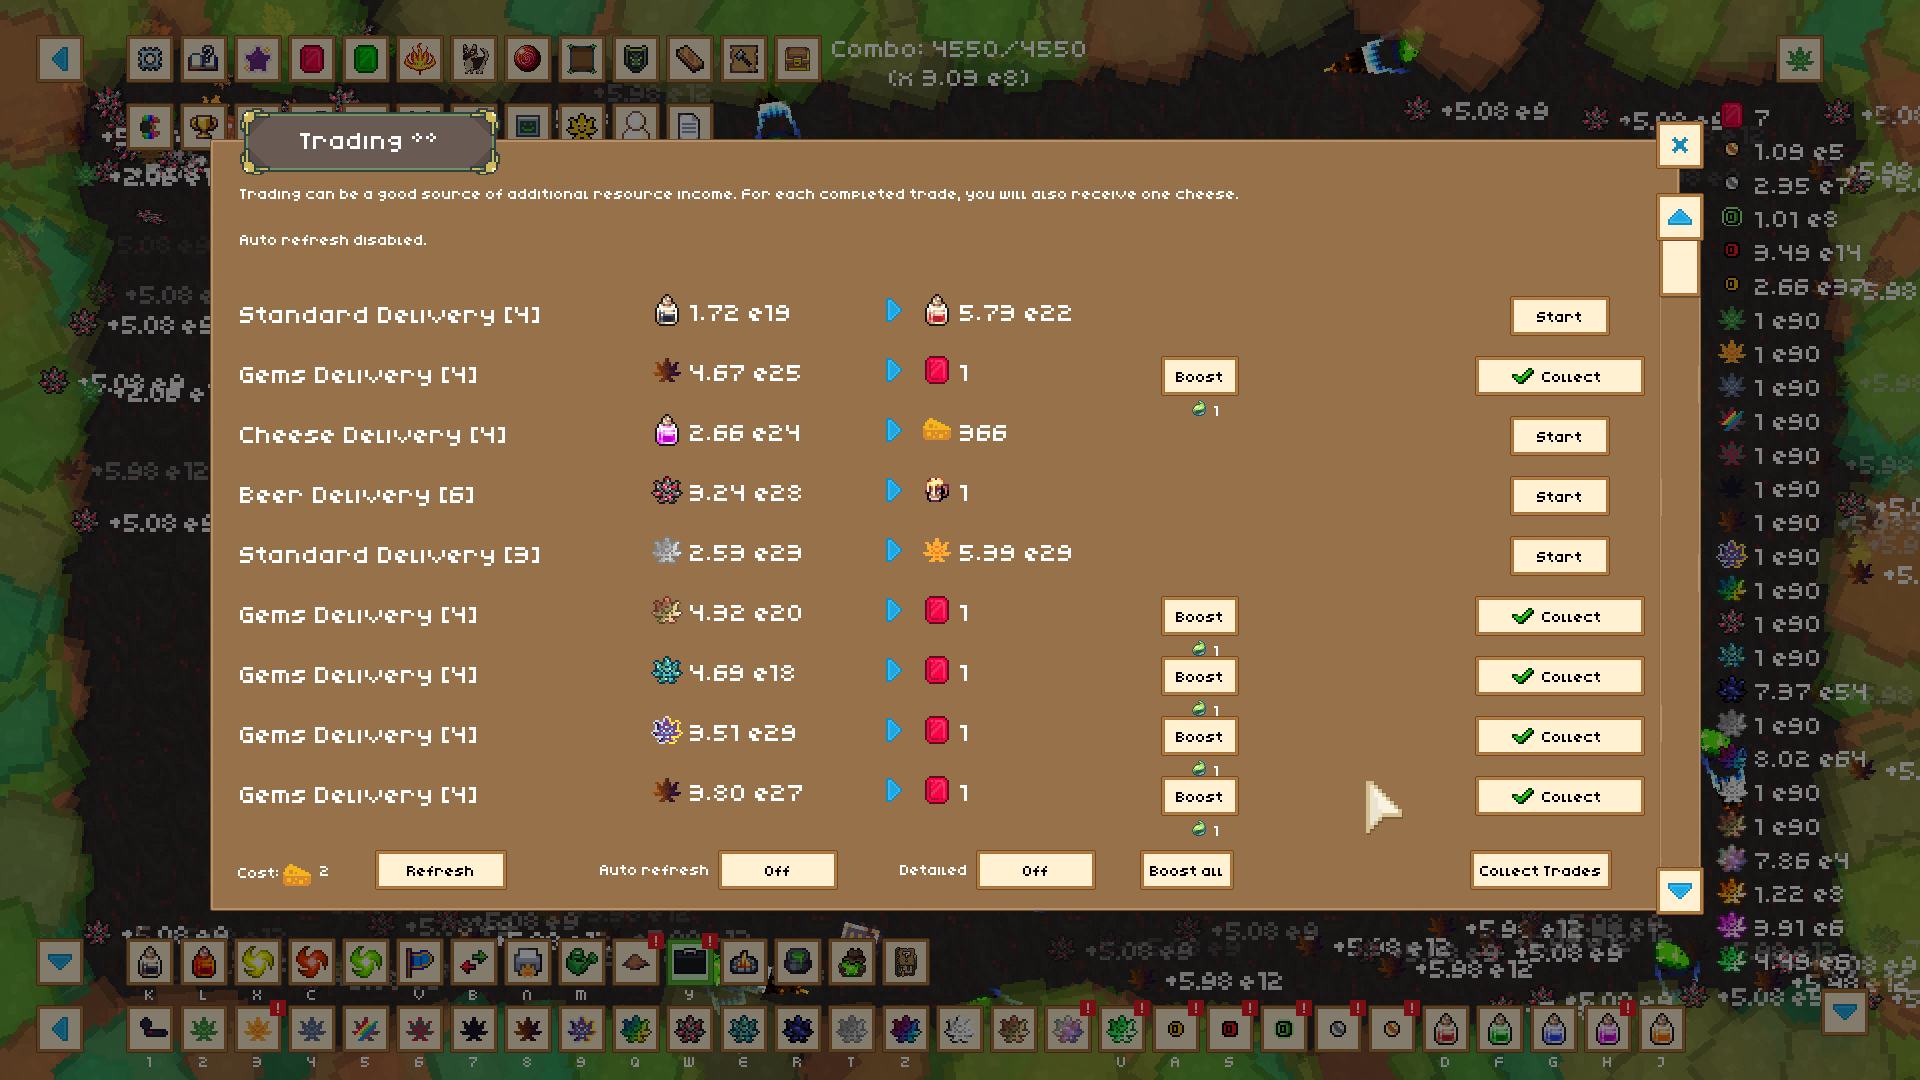
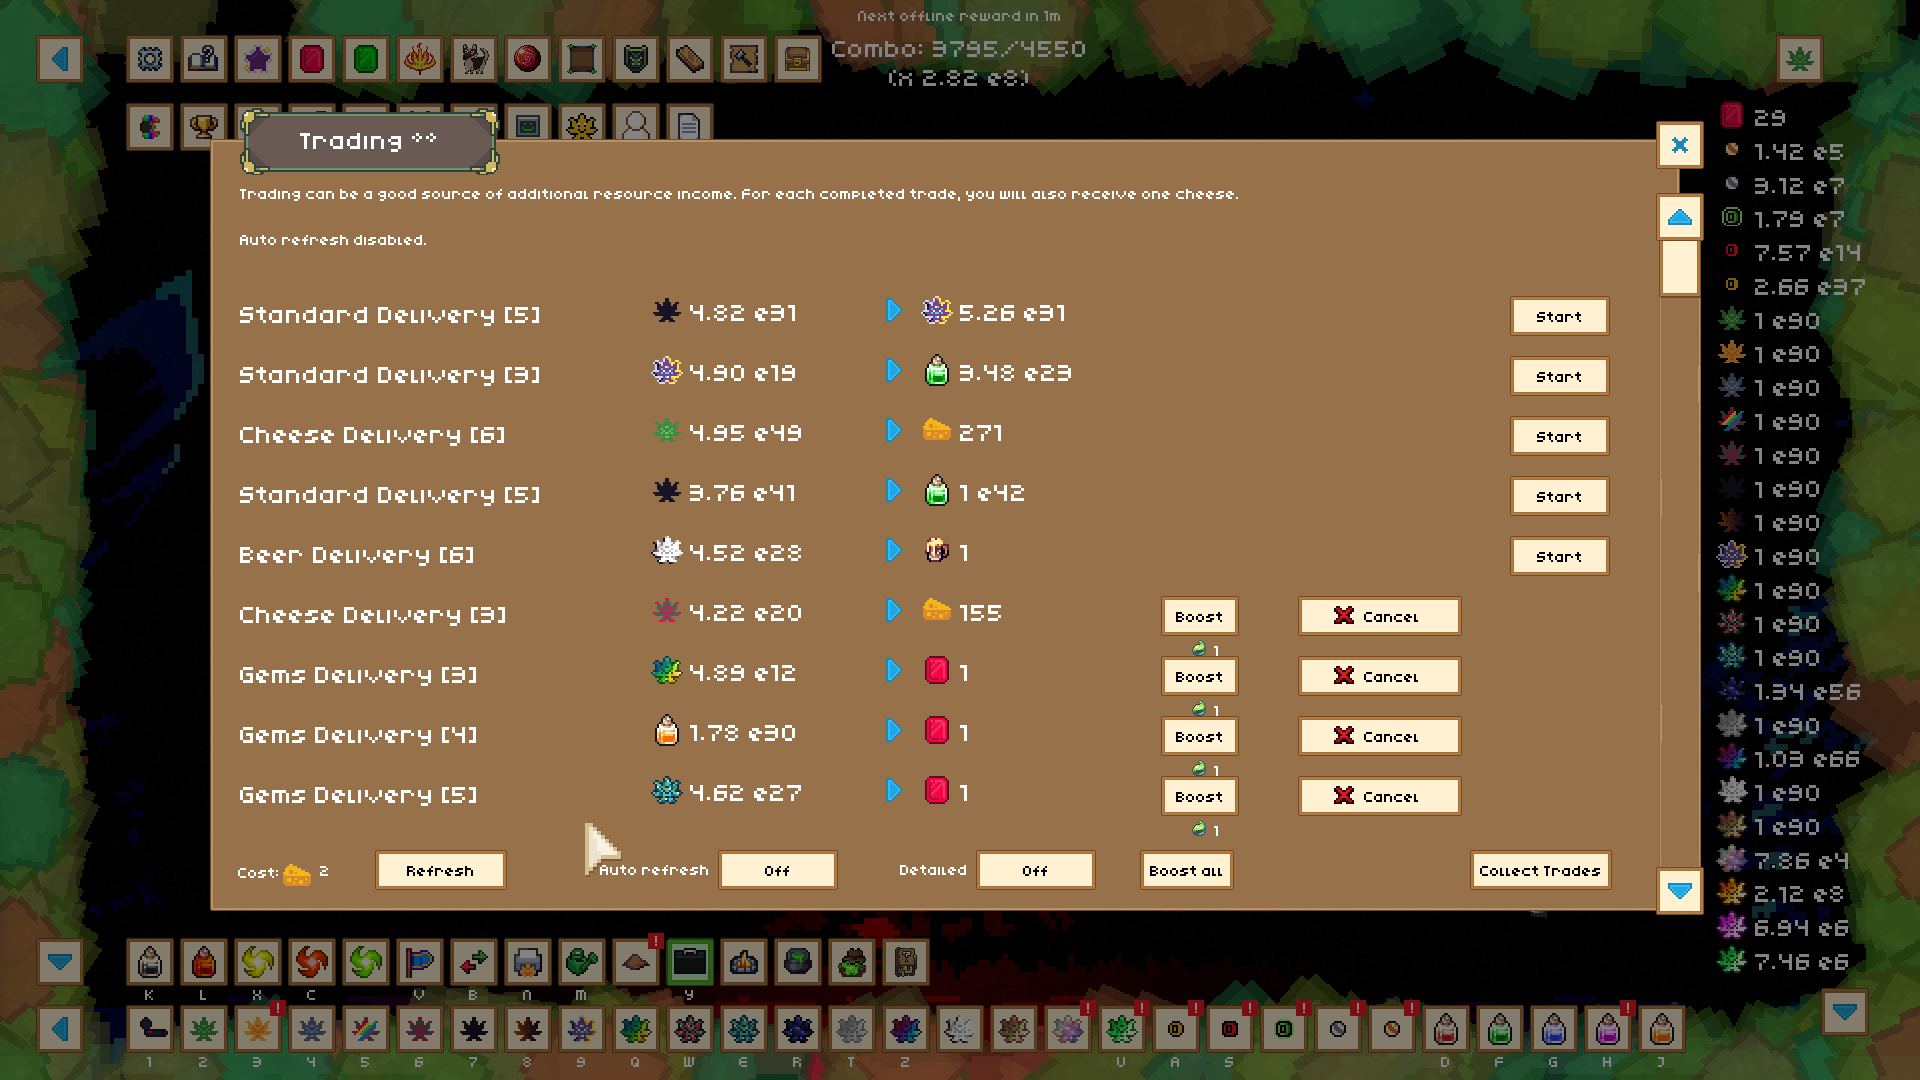
kuvan tunnistusta paranneltu sekä lisätty kalja trade

diff --git a/trade bot.py b/trade bot.py
@@ -6,6 +6,8 @@ import pyautogui
 
 gem_count = 0
 cheese_count = 0
+kalja_count = 0
+cancel_count = 0
 resourse_value = {}
 
 #reunojen piirto
@@ -13,17 +15,36 @@ def piirto(img_rgb, loc, w, h, img_type):
     for pt in zip(*loc[::-1]):
         if img_type == 'gem':
             color = (0, 255, 0)  # Vihreä gemille
-        elif img_type == 'cheese':
+            if any(abs(pt[0] - x) < 10 and abs(pt[1] - y) < 10 for x, y in resourse_value.get('gem', [])):
+                continue
+            resourse_value.setdefault('gem', set()).add((round(pt[0]), round(pt[1])))
+
+        if img_type == 'cheese':
             color = (0, 0, 255)  # Punainen juustolle
+            if any(abs(pt[0] - x) < 10 and abs(pt[1] - y) < 10 for x, y in resourse_value.get('cheese', [])):
+                continue
+            resourse_value.setdefault('cheese', set()).add((round(pt[0]), round(pt[1])))
+
+        if img_type == 'kalja':
+            color = (255, 0, 0)  # Sininen kaljalle
+            if any(abs(pt[0] - x) < 10 and abs(pt[1] - y) < 10 for x, y in resourse_value.get('kalja', [])):
+                continue
+            resourse_value.setdefault('kalja', set()).add((round(pt[0]), round(pt[1])))
+
+        elif img_type == 'cancel':
+            color = (0, 0, 0)  # Musta x kuvalle
+            if any(abs(pt[0] - x) < 10 and abs(pt[1] - y) < 10 for x, y in resourse_value.get('cancel', [])):
+                continue
+            resourse_value.setdefault('cancel', set()).add((round(pt[0]), round(pt[1])))
+
         cv2.rectangle(img_rgb, pt, (pt[0] + w, pt[1] + h), color, 2)
-        sensitivity = 100
-        resourse_value.setdefault(img_type, set()).add((round(pt[0]/sensitivity), round(pt[1]/sensitivity)))
+        resourse_value.setdefault(img_type, set()).add((round(pt[0]), round(pt[1])))
 
 #kuvan tunnistus
 img_rgb = cv2.imread('screenshot.png')
 img_gray = cv2.cvtColor(img_rgb, cv2.COLOR_BGR2GRAY)
 
-trade = ['gem.png','cheese.png']
+trade = ['gem.png','cheese.png','kalja.png','cancel.png']
 for i in trade:
     template = cv2.imread(i, 0)
     w, h = template.shape[::-1]
@@ -31,7 +52,6 @@ for i in trade:
     res = cv2.matchTemplate(img_gray, template, cv2.TM_CCOEFF_NORMED)
     threshold = 0.8
     loc = np.where(res >= threshold)
-
     piirto(img_rgb, loc, w, h, i.split('.')[0])  # Talletetaan kuvatyyppi
 
     cv2.imwrite('res.png', img_rgb)
@@ -39,9 +59,13 @@ for i in trade:
 #laskuri
 gem_count = len(resourse_value.get('gem', []))
 cheese_count = len(resourse_value.get('cheese', []))
+kalja_count = len(resourse_value.get('kalja', []))
+cancel_count = len(resourse_value.get('cancel', []))
 
 print('Gemei: ', gem_count)
 print('Juustoja: ', cheese_count)
+print('kaljaa: ', kalja_count)
+print('tradeja: ', cancel_count)
 
 while True:
     if keyboard.is_pressed('f4'):
